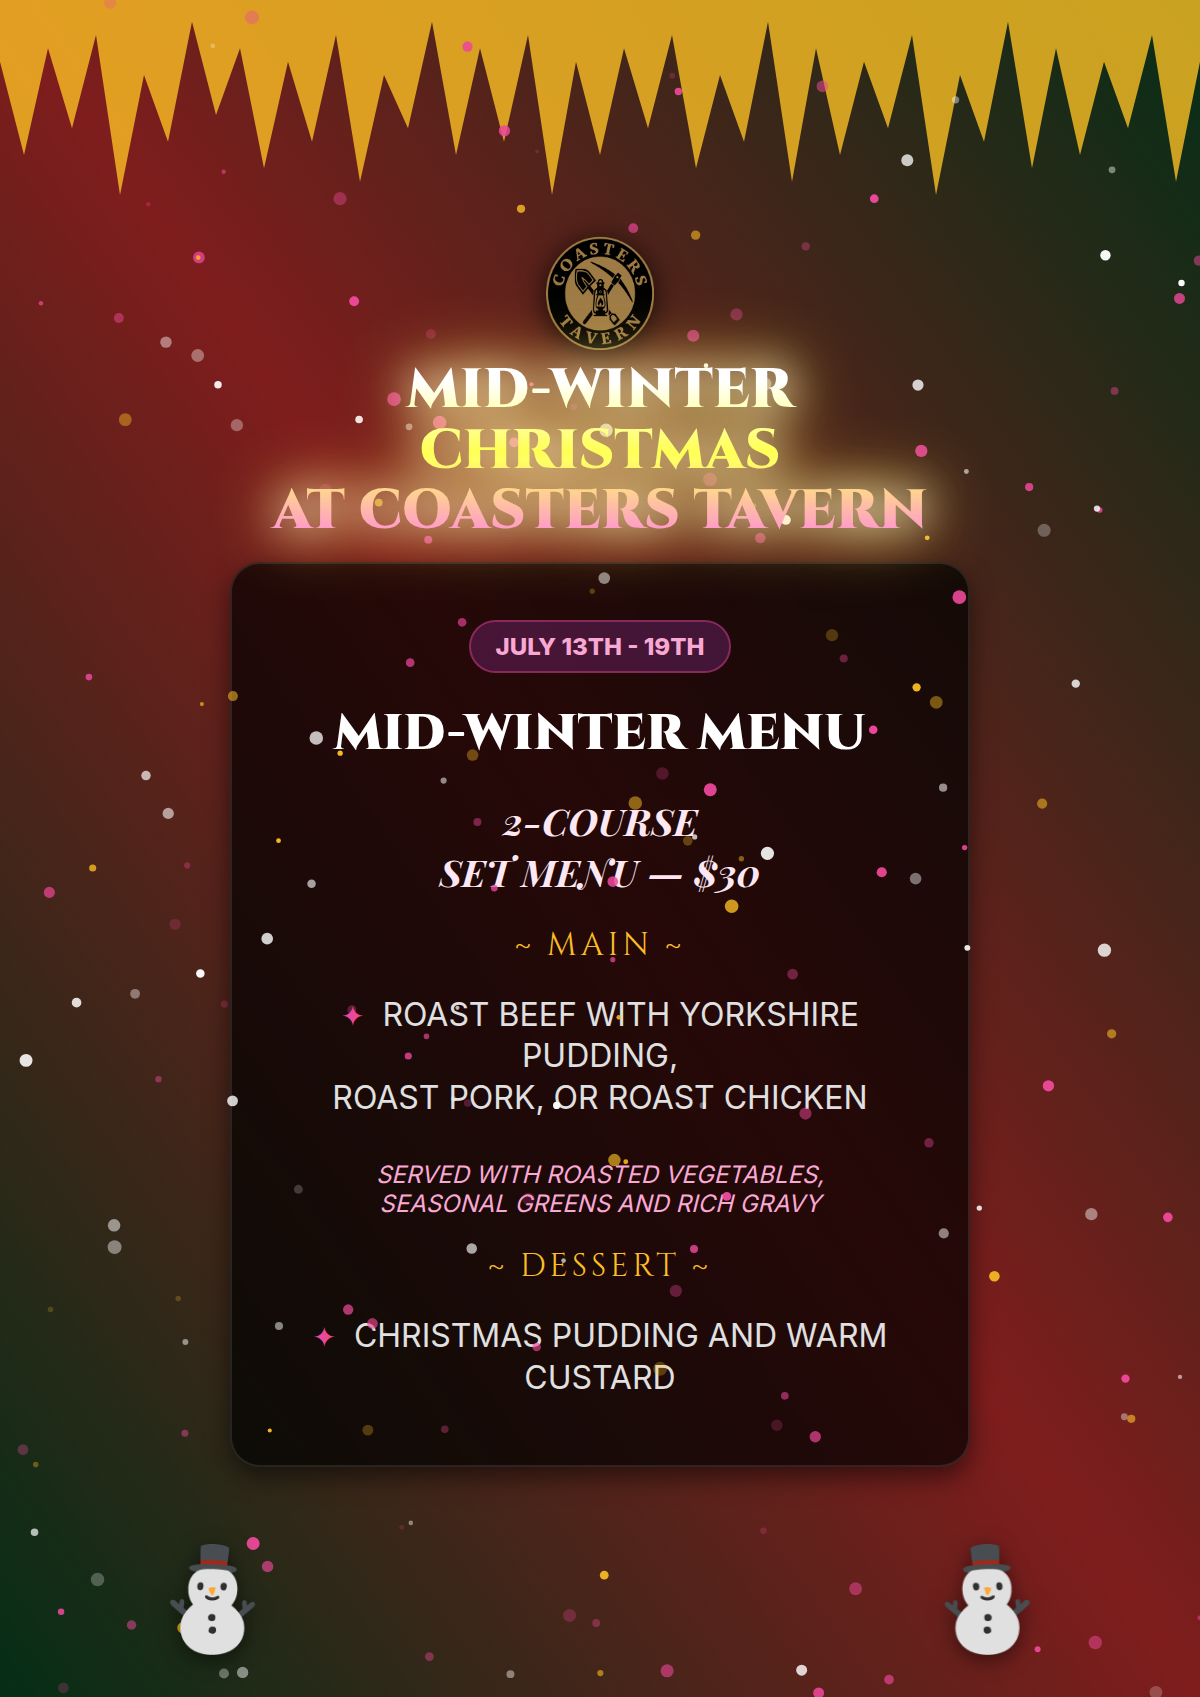
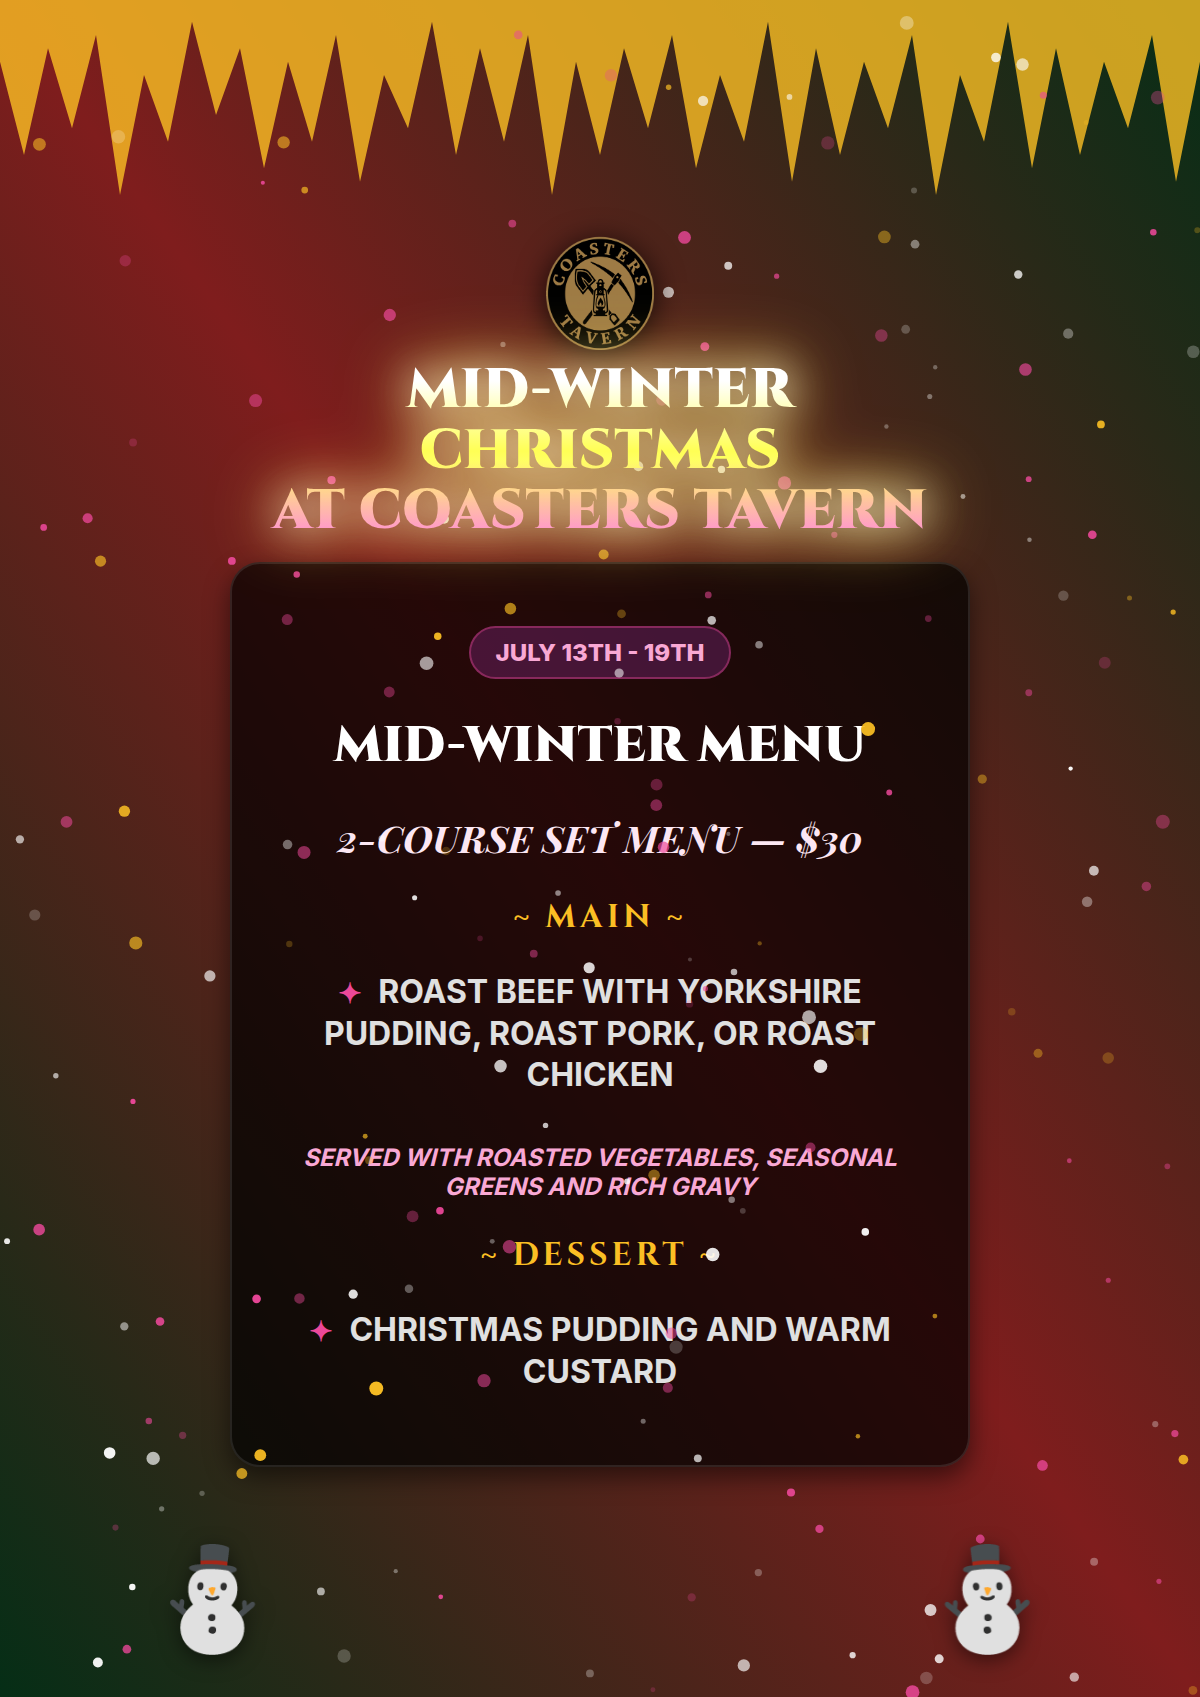
Make all poster text bold, update slide content, update images

diff --git a/poster_all.html b/poster_all.html
@@ -51,13 +51,13 @@
             flex-grow: 1; height: 0; /* Forces them to split available height evenly */
         }
         h1 { font-family: 'Cinzel', serif; font-size: 38px; font-weight: 900; color: #fff; margin: 0; text-shadow: 0 3px 10px rgba(0,0,0,0.5); }
-        h2 { font-family: 'Playfair Display', serif; font-size: 28px; font-style: italic; color: #fce7f3; margin: 0; text-shadow: 0 3px 10px rgba(0,0,0,0.5); }
-        .course-title { font-family: 'Cinzel', serif; font-size: 24px; color: #fbbf24; margin: 0; letter-spacing: 3px; }
+        h2 { font-family: 'Playfair Display', serif; font-size: 28px; font-weight: bold; font-style: italic; color: #fce7f3; margin: 0; text-shadow: 0 3px 10px rgba(0,0,0,0.5); }
+        .course-title { font-family: 'Cinzel', serif; font-size: 24px; font-weight: bold; color: #fbbf24; margin: 0; letter-spacing: 3px; }
         .date-badge { display: inline-block; background: rgba(0, 0, 0, 0.3); border: 2px solid rgba(236, 72, 153, 0.6); padding: 8px 20px; font-size: 20px; color: #f9a8d4; border-radius: 50px; margin: 0; box-shadow: 0 3px 10px rgba(0,0,0,0.5); font-weight: 900; }
         ul { list-style: none; padding: 0; margin: 0; text-align: center; width: 100%; }
-        li { font-size: 24px; margin-bottom: 5px; color: #e0e0e0; text-shadow: 0 2px 8px rgba(0,0,0,0.8); line-height: 1.2;}
+        li { font-size: 24px; font-weight: bold; margin-bottom: 5px; color: #e0e0e0; text-shadow: 0 2px 8px rgba(0,0,0,0.8); line-height: 1.2;}
         li::before { content: '✦ '; color: #ec4899; font-size: 20px; margin-right: 8px; }
-        .small-text { font-size: 18px; font-style: italic; color: #f9a8d4; margin-top: 5px; text-shadow: 0 2px 8px rgba(0,0,0,0.8); text-align: center; }
+        .small-text { font-size: 18px; font-weight: bold; font-style: italic; color: #f9a8d4; margin-top: 5px; text-shadow: 0 2px 8px rgba(0,0,0,0.8); text-align: center; }
     </style>
 </head>
 <body>
@@ -69,41 +69,43 @@
         <div class="slide-container">
             <!-- Menu -->
             <div class="glass-box" style="background: linear-gradient(to top right, rgba(5,46,22,0.7), rgba(127,29,29,0.7), rgba(5,46,22,0.7));">
-                <div class="date-badge">JULY 13TH - 19TH</div>
-                <h1>MID-WINTER MENU</h1>
-                <h2>2-COURSE SET MENU — $30</h2>
-                <div class="course-title">~ MAIN ~</div>
-                <ul>
-                    <li>Roast Beef with Yorkshire pudding, <br>Roast Pork, or Roast Chicken</li>
-                </ul>
-                <div class="small-text">served with roasted vegetables, seasonal greens and rich gravy</div>
-                <div class="course-title">~ DESSERT ~</div>
-                <ul>
-                    <li>Christmas pudding and warm custard</li>
-                </ul>
+<div class="date-badge">JULY 13TH - 19TH</div>
+<h1>Mid-Winter Menu</h1>
+<h2>2-Course Set Menu — $30</h2>
+
+<div class="course-title">~ MAIN ~</div>
+<ul>
+    <li>Roast Beef with Yorkshire pudding, Roast Pork, or Roast Chicken</li>
+</ul>
+<div class="small-text">served with roasted vegetables, seasonal greens and rich gravy</div>
+
+<div class="course-title">~ DESSERT ~</div>
+<ul>
+    <li>Christmas pudding and warm custard</li>
+</ul>
             </div>
             <!-- Quiz -->
             <div class="glass-box" style="background: linear-gradient(to top right, rgba(2,6,23,0.7), rgba(29,78,216,0.7), rgba(15,23,42,0.7));">
-                <div class="date-badge">WEDNESDAY, 15TH JULY</div>
-                <h1>MID-WINTER QUIZ</h1>
-                <h2>Assemble Your Sharpest Crew</h2>
-                <ul>
-                    <li>Starts at 7:00 PM Sharp</li>
-                    <li>$190 in vouchers to be won!</li>
-                    <li>Prizes for best dressed!</li>
-                </ul>
-                <h2 style="margin-bottom: 0;">BOOKINGS ARE ESSENTIAL</h2>
+<div class="date-badge">WEDNESDAY, 15TH JULY</div>
+<h1>Mid-Winter Quiz</h1>
+<h2>Assemble Your Sharpest Crew</h2>
+<ul>
+    <li>Starts at 7:00 PM Sharp</li>
+    <li>$190 in vouchers to be won!</li>
+    <li>Prizes for best dressed!</li>
+</ul>
+<h2 style="margin-bottom: 0;">BOOKINGS ARE ESSENTIAL</h2>
             </div>
             <!-- Karaoke -->
             <div class="glass-box" style="background: linear-gradient(to top right, rgba(2,6,23,0.7), rgba(59,7,100,0.7), rgba(30,27,75,0.7));">
-                <div class="date-badge">SATURDAY, 18TH JULY</div>
-                <h1>MID-WINTER KARAOKE</h1>
-                <h2>Hosted by Mel & Dave</h2>   
-                <ul>
-                    <li>Vouchers to be won! <br>Every song sung puts you in the draw!</li>
-                    <li>Prizes for best Dressed!</li>
-                    <li>Commences from 8:00 PM</li>
-                </ul>
+<div class="date-badge">SATURDAY, 18TH JULY</div>
+<h1>Mid-Winter Karaoke</h1>
+<h2>Hosted by Mel & Dave</h2>   
+<ul>
+    <li>Vouchers to be won! Every song sung puts you in the draw!</li>
+    <li>Prizes for best Dressed!</li>
+    <li>Commences from 8:00 PM</li>
+</ul>
             </div>
         </div>
     </div>

diff --git a/poster_menu.html b/poster_menu.html
@@ -45,13 +45,13 @@
             flex-grow: 1; position: relative; z-index: 20;
         }
         h1 { font-family: 'Cinzel', serif; font-size: 50px; font-weight: 900; color: #fff; margin: 0; }
-        h2 { font-family: 'Playfair Display', serif; font-size: 38px; font-style: italic; color: #fce7f3; margin: 0; }
-        .course-title { font-family: 'Cinzel', serif; font-size: 32px; color: #fbbf24; margin: 0; letter-spacing: 4px; }
+        h2 { font-family: 'Playfair Display', serif; font-size: 38px; font-weight: bold; font-style: italic; color: #fce7f3; margin: 0; }
+        .course-title { font-family: 'Cinzel', serif; font-size: 32px; font-weight: bold; color: #fbbf24; margin: 0; letter-spacing: 4px; }
         .date-badge { display: inline-block; background: rgba(217, 70, 239, 0.2); border: 2px solid rgba(236, 72, 153, 0.4); padding: 10px 25px; font-size: 24px; color: #f9a8d4; border-radius: 50px; margin: 0; font-weight: 900;}
         ul { list-style: none; padding: 0; margin: 0; text-align: center; width: 100%; }
-        li { font-size: 32px; margin-bottom: 10px; color: #e0e0e0; line-height: 1.3;}
+        li { font-size: 32px; font-weight: bold; margin-bottom: 10px; color: #e0e0e0; line-height: 1.3;}
         li::before { content: '✦ '; color: #ec4899; font-size: 28px; margin-right: 10px; }
-        .small-text { font-size: 24px; font-style: italic; color: #f9a8d4; margin-top: 5px; text-align: center; }
+        .small-text { font-size: 24px; font-weight: bold; font-style: italic; color: #f9a8d4; margin-top: 5px; text-align: center; }
     </style>
 </head>
 <body>
@@ -61,20 +61,20 @@
         <img src="logo.png" class="coasters-logo" alt="Coasters Tavern Logo">
         <div class="main-heading">Mid-Winter Christmas <br>at Coasters Tavern</div>
         <div class="glass-box">
-            <div class="date-badge">JULY 13TH - 19TH</div>
-            <h1>MID-WINTER MENU</h1>
-            <h2>2-COURSE <br>SET MENU — $30</h2>
-            
-            <div class="course-title">~ MAIN ~</div>
-            <ul>
-                <li>Roast Beef with Yorkshire pudding, <br>Roast Pork, or Roast Chicken</li>
-            </ul>
-            <div class="small-text">served with roasted vegetables, <br>seasonal greens and rich gravy</div>
-            
-            <div class="course-title">~ DESSERT ~</div>
-            <ul>
-                <li>Christmas pudding and warm custard</li>
-            </ul>
+<div class="date-badge">JULY 13TH - 19TH</div>
+<h1>Mid-Winter Menu</h1>
+<h2>2-Course Set Menu — $30</h2>
+
+<div class="course-title">~ MAIN ~</div>
+<ul>
+    <li>Roast Beef with Yorkshire pudding, Roast Pork, or Roast Chicken</li>
+</ul>
+<div class="small-text">served with roasted vegetables, seasonal greens and rich gravy</div>
+
+<div class="course-title">~ DESSERT ~</div>
+<ul>
+    <li>Christmas pudding and warm custard</li>
+</ul>
         </div>
     </div>
     <div class="snowman-scene" style="position: absolute; bottom: 40px; left: 0; width: 100%; height: 100px; z-index: 100; pointer-events: none; overflow: visible;">
